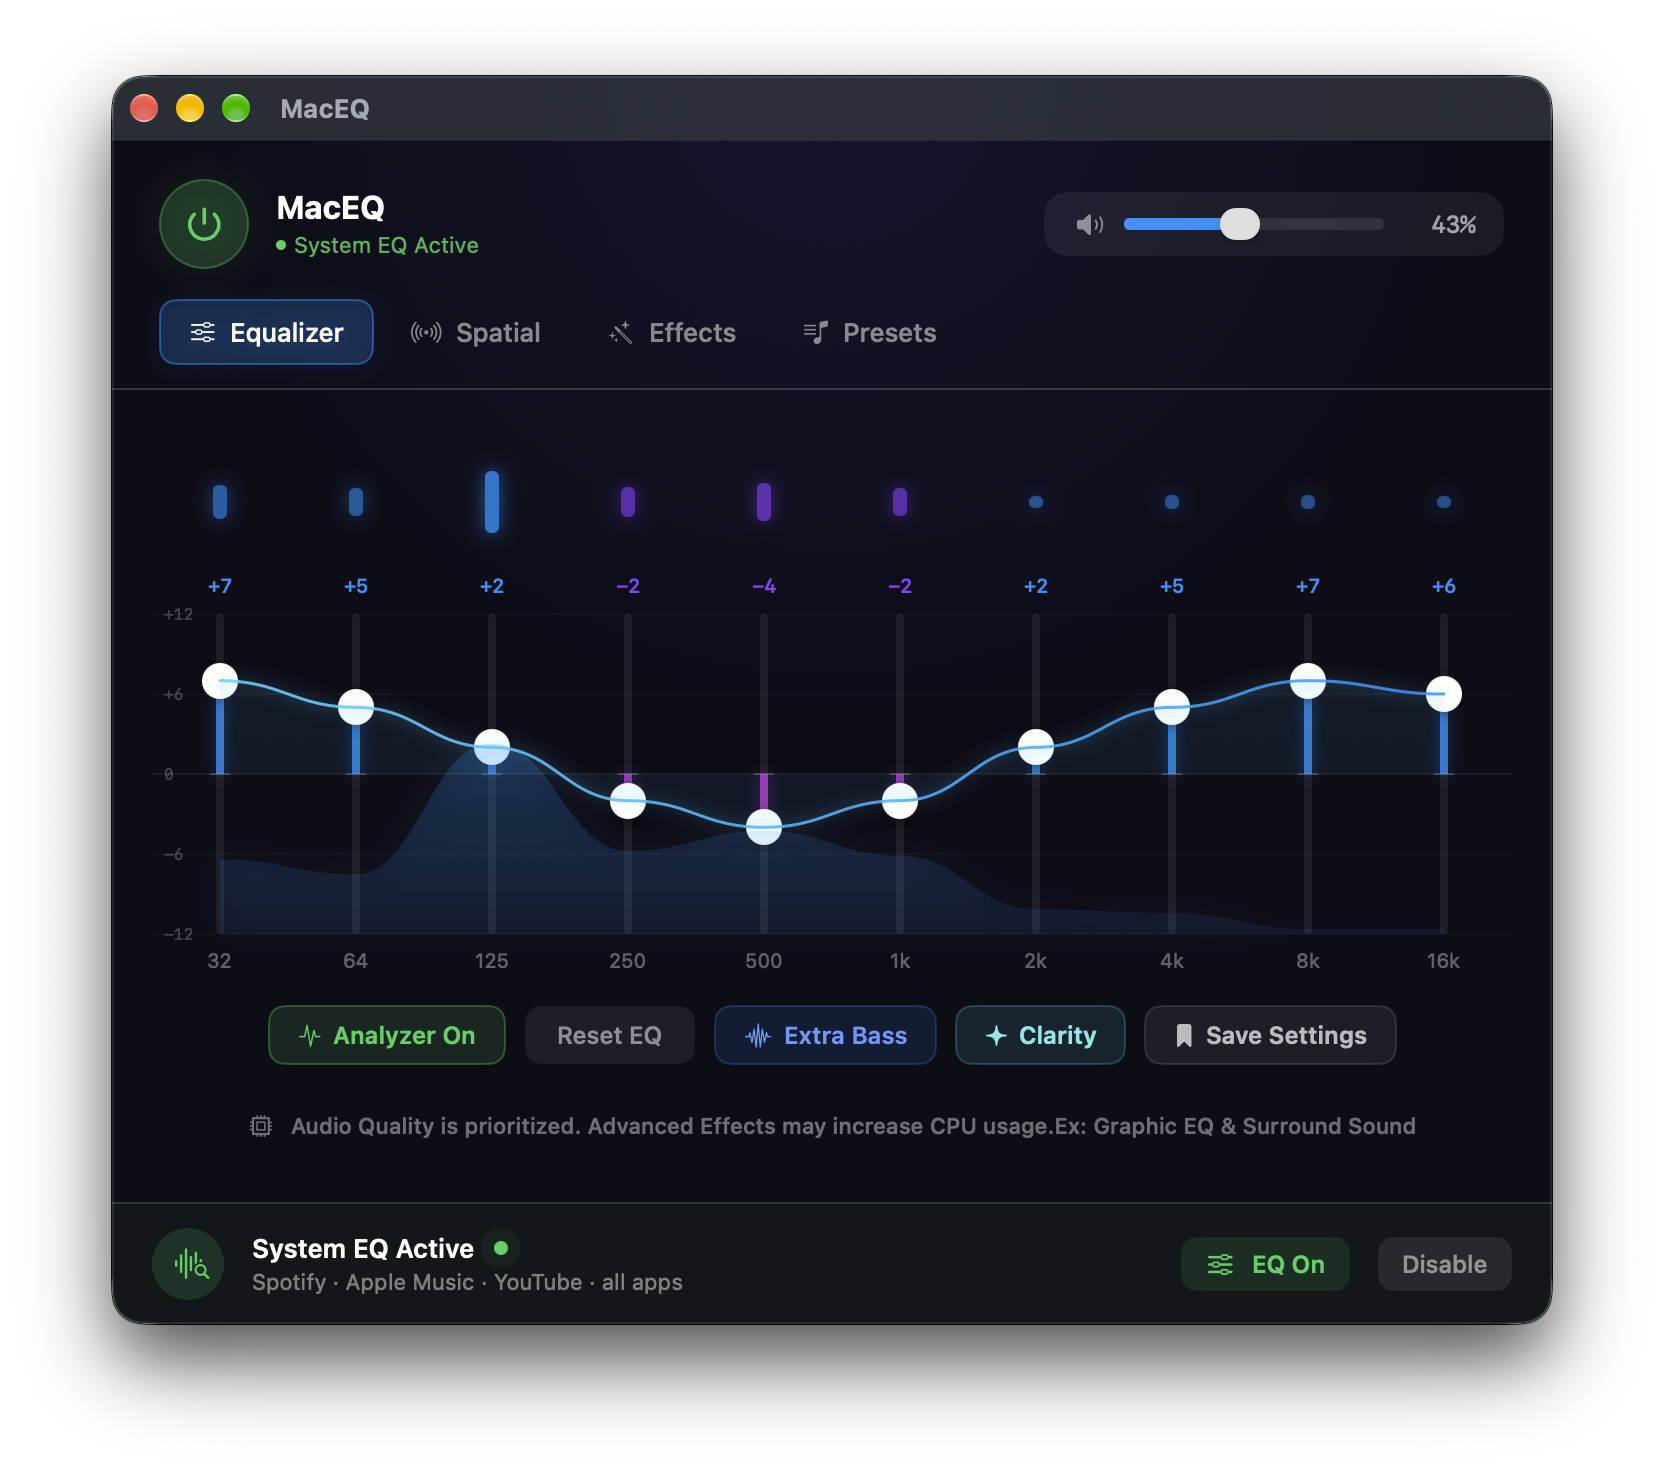
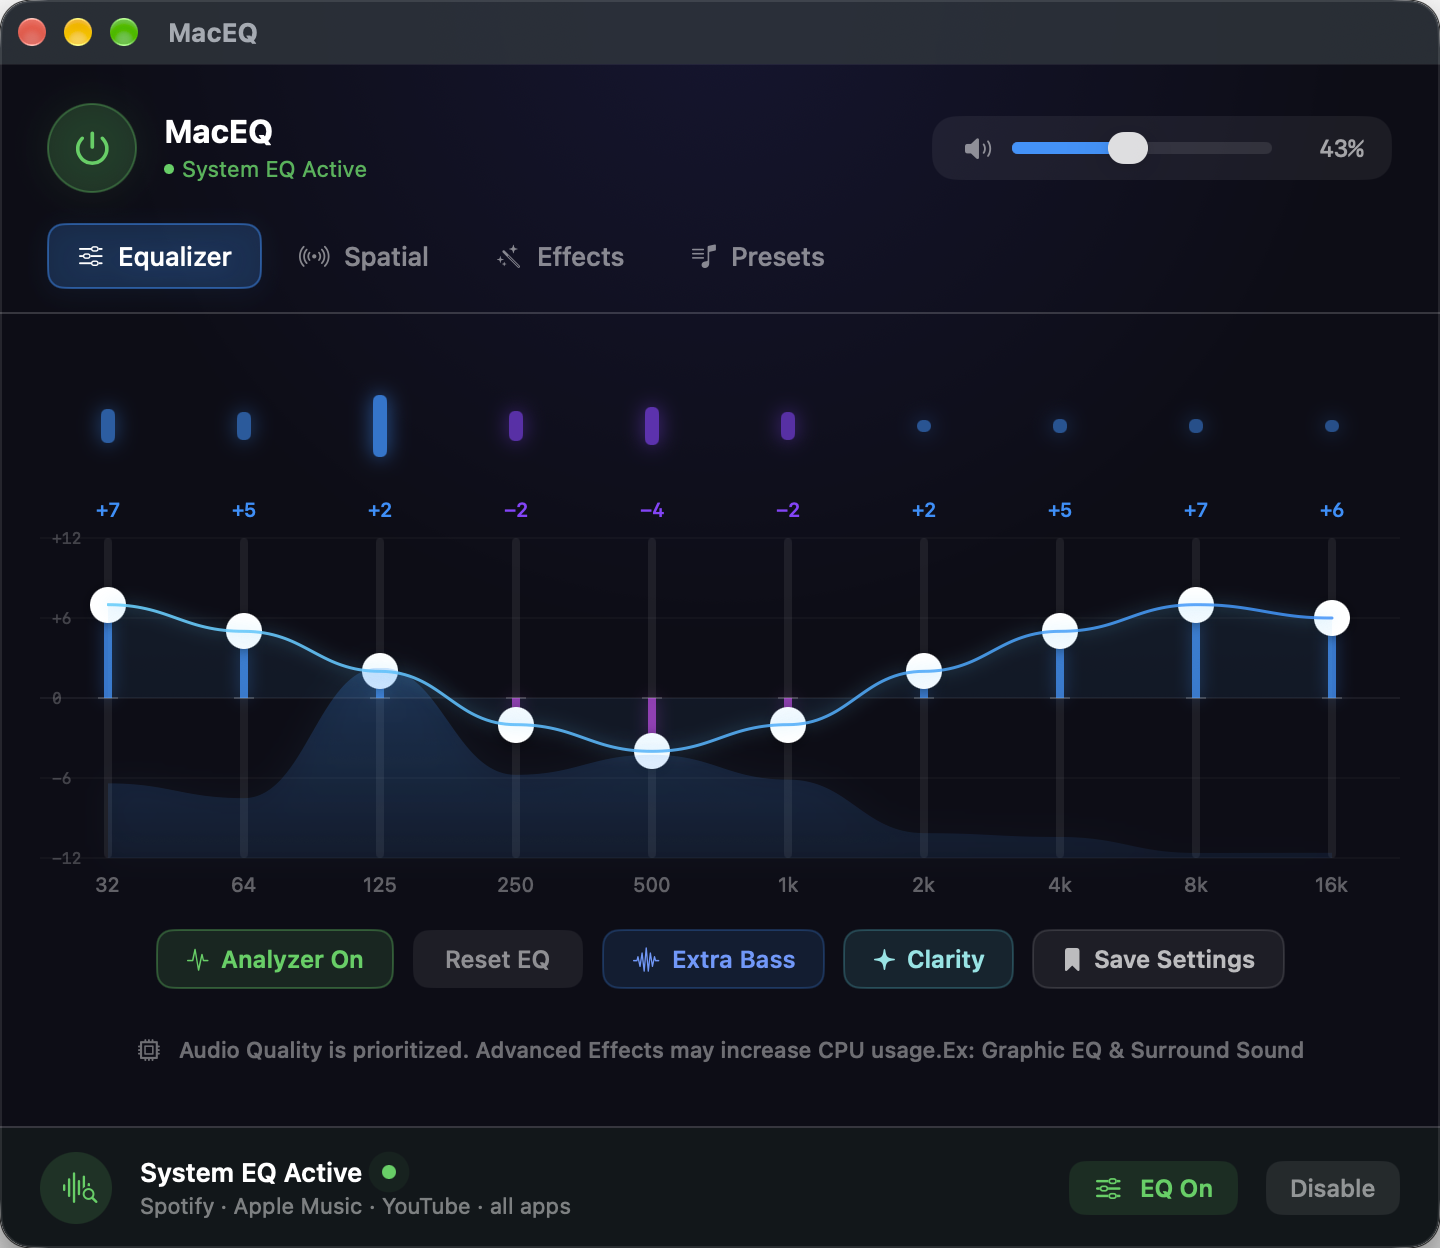
Crop screenshot padding so images match the text width

diff --git a/index.html b/index.html
@@ -289,7 +289,7 @@
 <p class="requirements">Free to try · Requires macOS 27 · No Driver · No Subscription</p>
 
 <figure class="reveal">
-  <img src="Assets/Main%20App.png" width="1664" height="1472" alt="macEQ equalizer showing a live spectrum analyzer and a ten-band EQ curve">
+  <img src="Assets/Main%20App.png" width="1440" height="1248" alt="macEQ equalizer showing a live spectrum analyzer and a ten-band EQ curve">
   <figcaption>The ten-band equalizer, with the live curve and spectrum analyzer.</figcaption>
 </figure>
 
@@ -330,7 +330,7 @@
 </ul>
 
 <figure class="reveal">
-  <img src="Assets/Spatial%20Effect.png" width="1664" height="1472" loading="lazy" alt="macEQ spatial surround control with five virtual speaker positions">
+  <img src="Assets/Spatial%20Effect.png" width="1440" height="1248" loading="lazy" alt="macEQ spatial surround control with five virtual speaker positions">
   <figcaption>Five virtual speaker positions with adjustable intensity.</figcaption>
 </figure>
 
@@ -349,7 +349,7 @@
 </p>
 
 <figure class="reveal">
-  <img src="Assets/Presets%20Tab.png" width="1664" height="1526" loading="lazy" alt="macEQ presets tab with saved and built-in sound profiles">
+  <img src="Assets/Presets%20Tab.png" width="1440" height="1302" loading="lazy" alt="macEQ presets tab with saved and built-in sound profiles">
   <figcaption>Built-in and personal presets, all in one place.</figcaption>
 </figure>
 

diff --git a/theme.css b/theme.css
@@ -76,6 +76,12 @@ figure {
   margin-bottom: clamp(40px, 6vw, 60px);
 }
 
+/* The screenshots are cropped to the window edge, so they span the same
+   width as the body text. The caption sits right under the window. */
+figcaption {
+  margin-top: 14px;
+}
+
 /* ---------- Hero: a more confident app icon ---------- */
 
 .app-icon {
